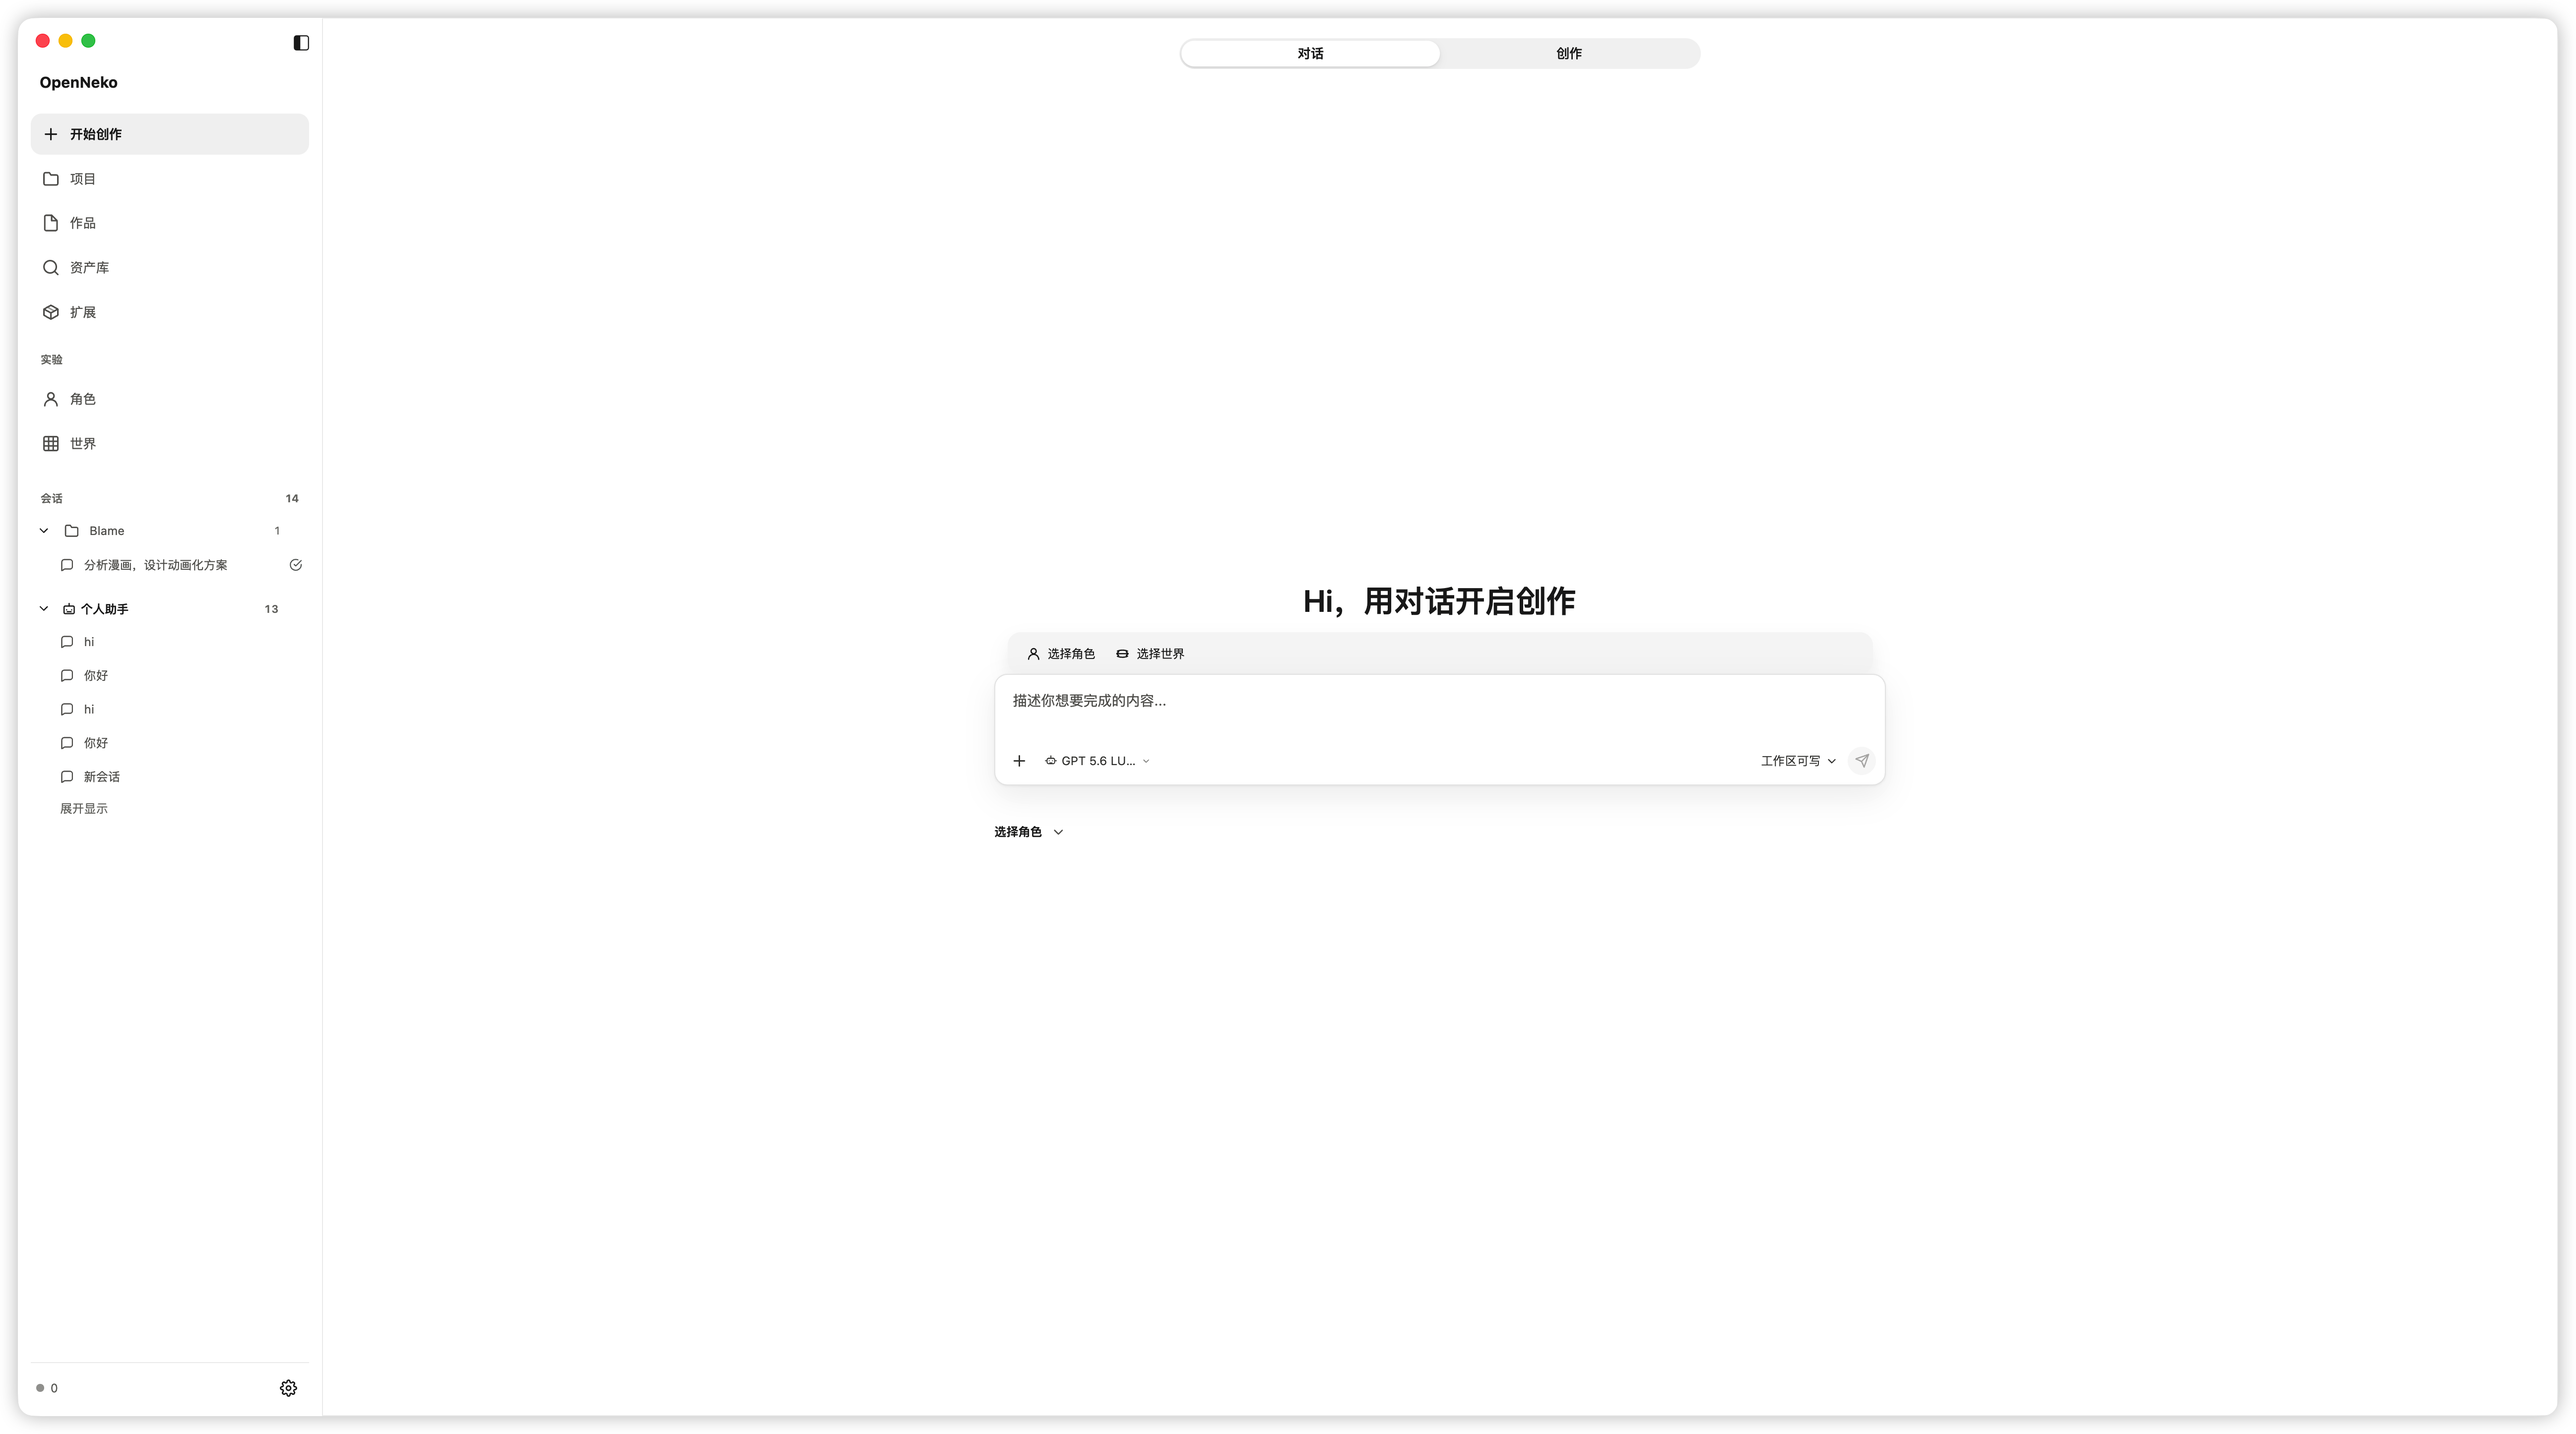
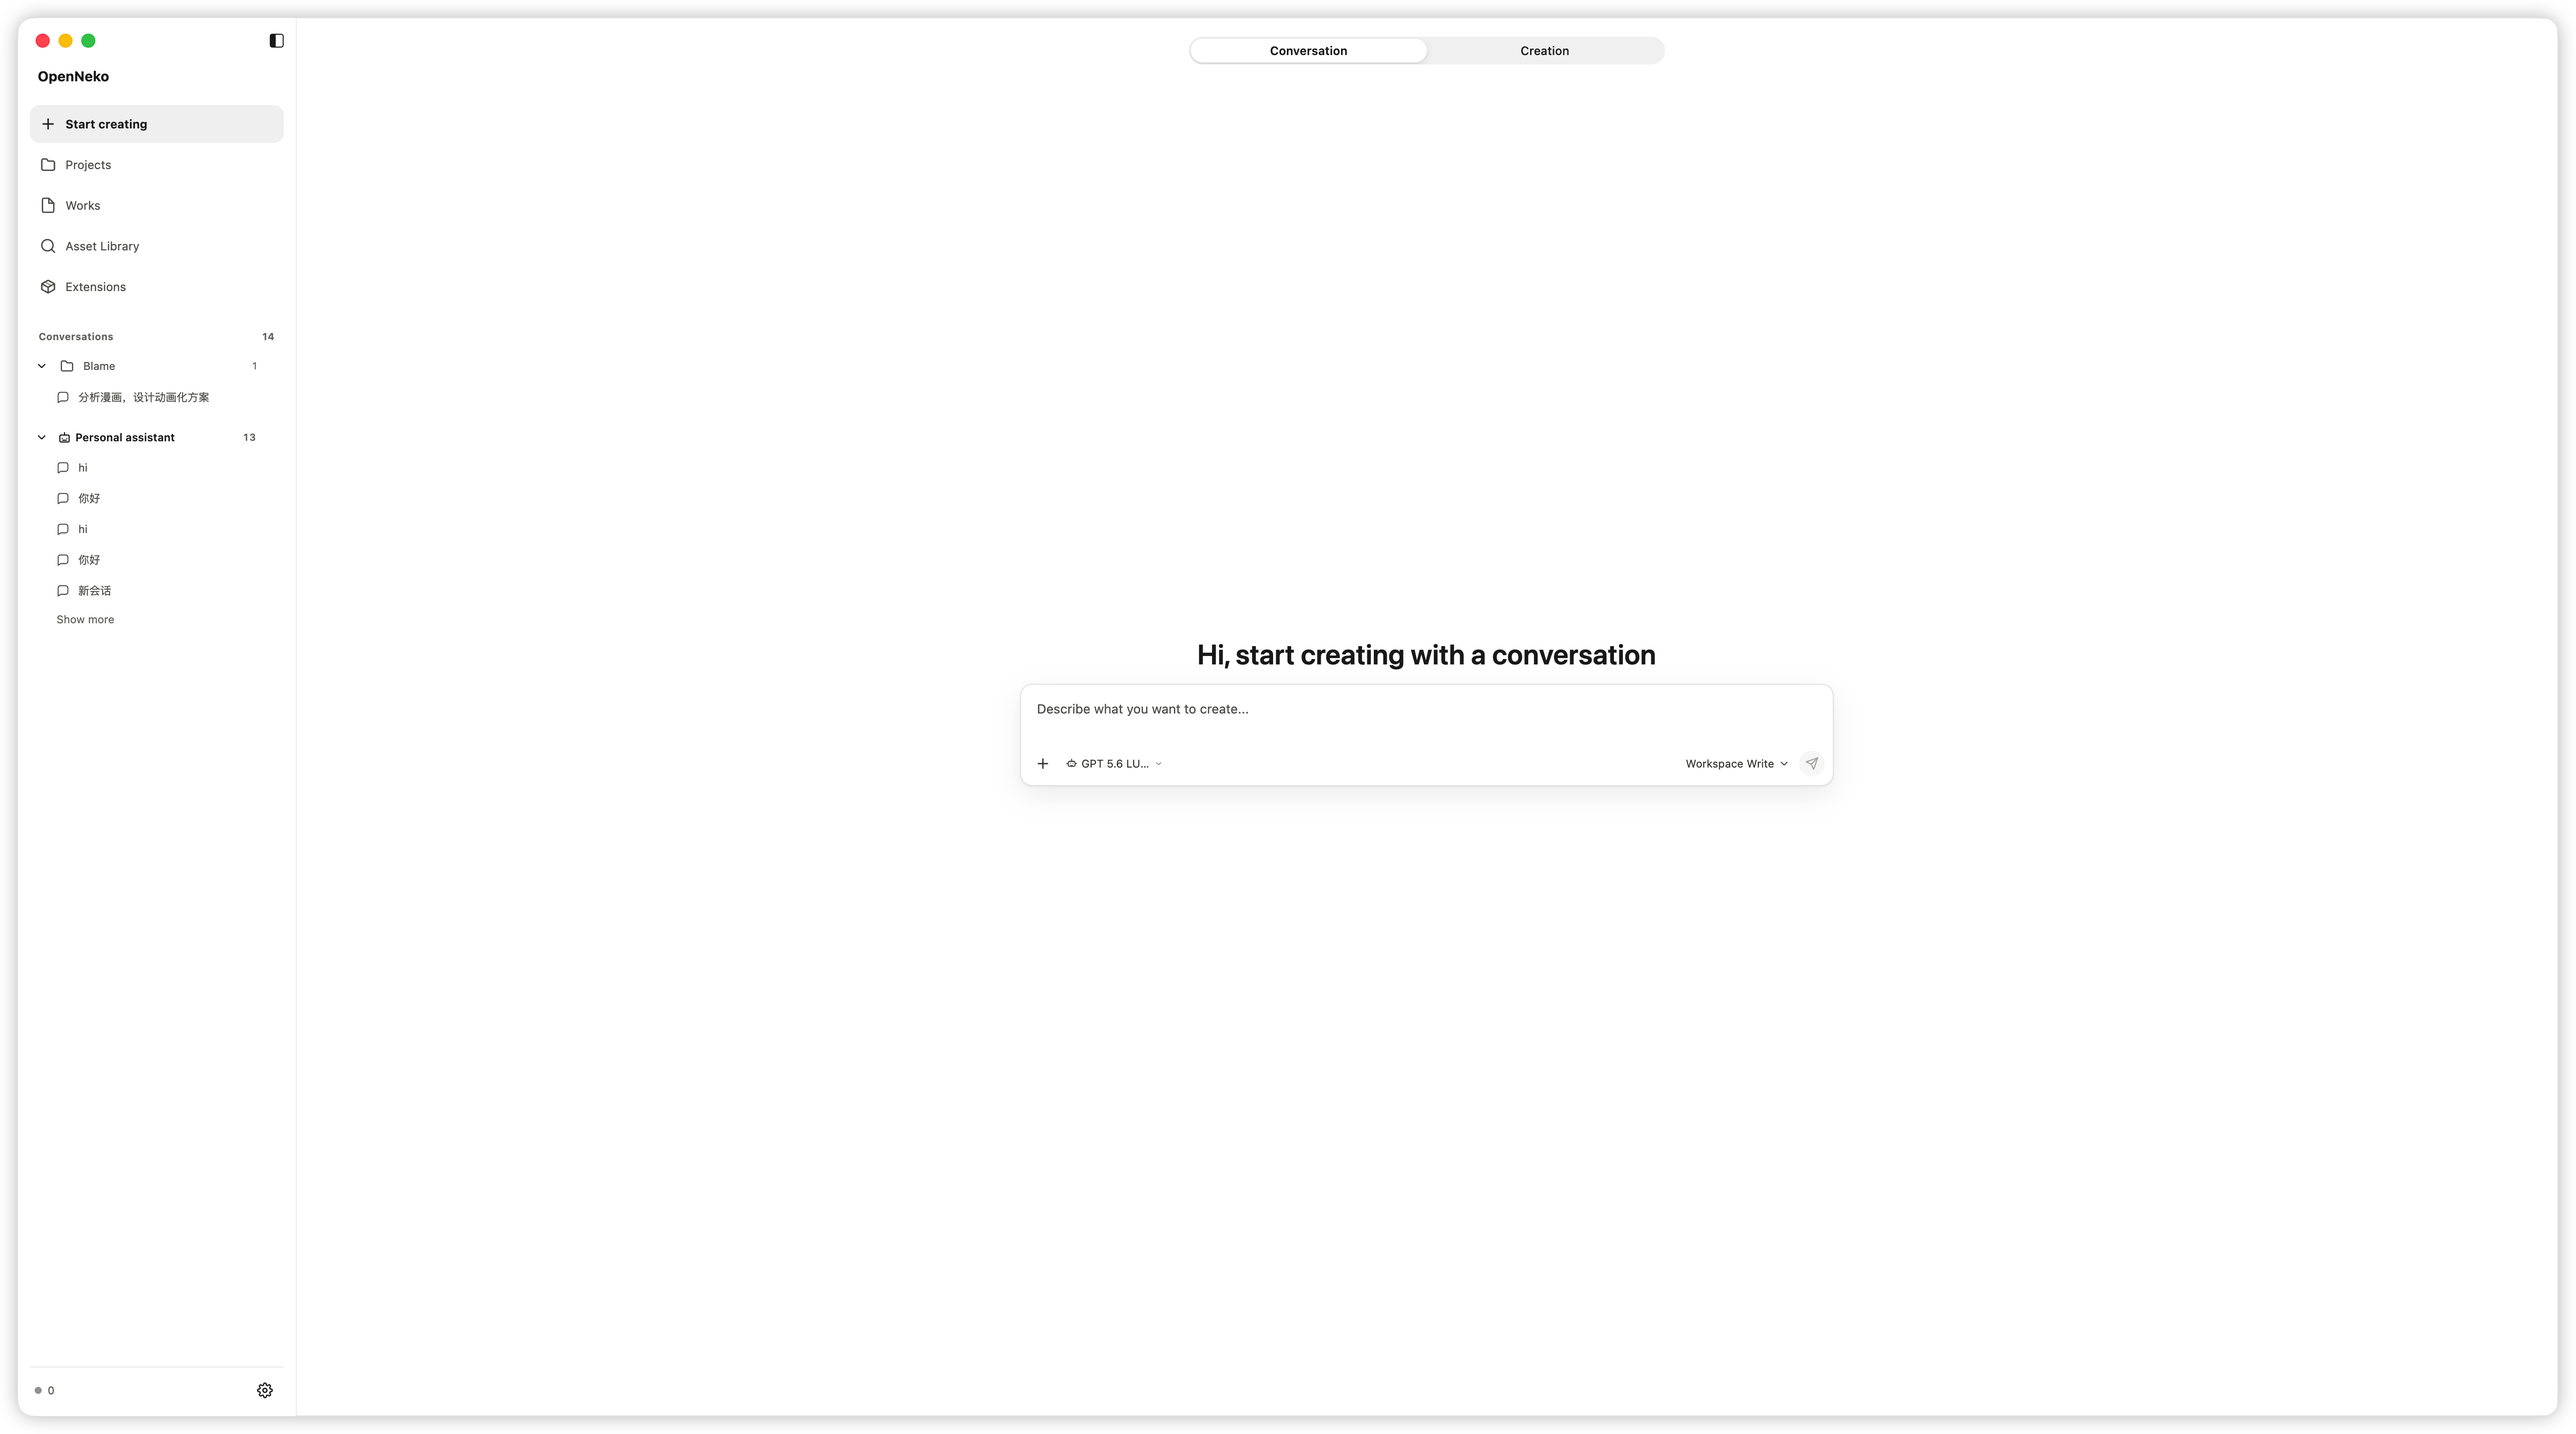
docs: refresh README interface screenshots

diff --git a/README.md b/README.md
@@ -12,7 +12,7 @@ Discuss ideas with an Agent, analyze references, generate content, and continue 
 
 ![OpenNeko conversation entry: switch between conversation and creation, choose a model, and describe your idea](./docs/assets/openneko-conversation.png)
 
-_Start from the conversation or creation mode. The screenshot shows the development build, where Character and World are experimental features._
+_Start in conversation or creation mode, choose a model, and describe what you want to create._
 
 ## What You Can Do
 
